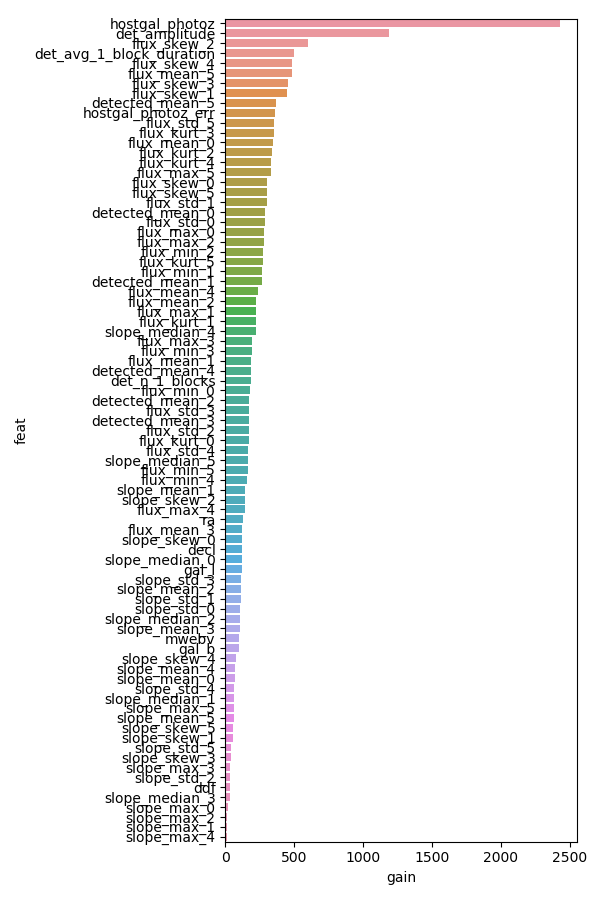
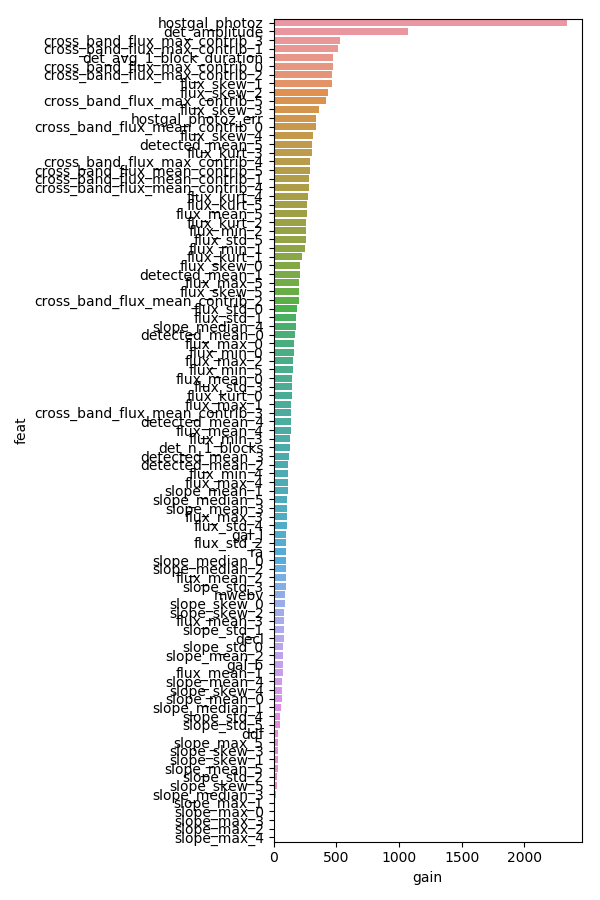
start monday aft

diff --git a/featgen_standard_v2.py b/featgen_standard_v2.py
@@ -25,12 +25,13 @@ def atomic_worker(args):
     feat_names = []
     feat_arrays = []
     compute_feats = {
-        'm-feats'            : False,
+        'm-feats'            : True,
         'm-feats-filtered'   : False,
-        't-feats'            : False,
-        'd-feats'            : False,
+        't-feats'            : True,
+        'd-feats'            : True,
         'cesium-feats'       : False,
-        'slope-feats'        : True,
+        'slope-feats'        : False,
+        'exp'                : False,
     }
 
 
@@ -60,6 +61,16 @@ def atomic_worker(args):
                     m_array[i,j*num_bands+k] = f(band)
 
         feat_arrays.append(m_array)
+
+        # Compute cross flux relations
+        cross_band_names = ['cross_band_flux_mean_contrib', 'cross_band_flux_max_contrib']
+        for fn in cross_band_names:
+            feat_names.extend([f'{fn}_{i:d}' for i in range(num_bands)])
+        mc_array = np.hstack([
+            m_array[:,:6] / np.sum(m_array[:,6:12], axis=1)[:,None],
+            m_array[:,6:12] / np.sum(m_array[:,6:12], axis=1)[:,None],
+        ])
+        feat_arrays.append(mc_array)
 
     '''
     slope feats
@@ -106,8 +117,6 @@ def atomic_worker(args):
 
         feat_arrays.append(s_array)
 
-
-
     '''
     m-feats (filtered flux) - for now empty bands
     '''
@@ -136,7 +145,62 @@ def atomic_worker(args):
 
         feat_arrays.append(mf_array)
 
+    '''
+    Experimental feats
+    '''
+    if compute_feats['exp']:
 
+        num_feats = 1
+
+        # Allocate numpy placeholder for computed feats
+        exp_array = np.zeros(
+            shape=(oids.size, num_feats * 6)
+        )
+
+        # Define feats to compute
+        def exp_feats(ts, ms, ds):
+            '''
+            Compute delta m15 on transients
+            '''
+
+            comp_feats = np.ones(6) * 10
+
+            for i, (t,m,d) in enumerate(zip(ts,ms,ds)):
+
+                # Check if null or near null band
+                if np.sum(d) <= 1:
+                    continue
+
+                # Check if transient
+                det_indexes = np.where(d==1)[0]
+                diff = det_indexes[1:]-det_indexes[:-1]
+                if np.any(diff != 1): # More than 1 group
+                    continue
+
+                # Find peak location
+
+                m = (m - np.mean(m[d])) / (np.max(m[d]) - np.min(m[d]))
+
+                peak_index = np.argmax(m[d])
+                peak_t = t[peak_index]
+                peak_m = m[peak_index]
+
+                # Walk from peak forward until we pass the 15 day mark
+                for m_after_peak, t_after_peak in zip(m[d][peak_index:], t[d][peak_index:]):
+                    if t_after_peak - peak_t >= 15:
+                        comp_feats[i] = m_after_peak - peak_m
+                        break
+
+            return comp_feats
+
+
+        feat_names.extend([f'exp_{i}' for i in range(6)])
+
+        # Compute 'td' (mjd/detected)-related feats
+        for i, (oid_t_curves, oid_m_curves, oid_d_curves) in enumerate(zip(lcs[0], lcs[1], lcs[3])):
+            exp_array[i, :] = exp_feats(oid_t_curves, oid_m_curves, oid_d_curves)
+
+        feat_arrays.append(exp_array)
 
     '''
     t-related feats (mjd, detected)
@@ -217,8 +281,6 @@ def atomic_worker(args):
 
         feat_arrays.append(t_array)
 
-
-
     '''
     Simple d feats
     '''
@@ -244,8 +306,6 @@ def atomic_worker(args):
                     d_array[i, j * num_bands + k] = f(band)
 
         feat_arrays.append(d_array)
-
-
 
     '''
     Cesium feats
@@ -359,7 +419,7 @@ set_str = 'test'
 st = time.time()
 main(
     save_dir='data/'+set_str+'_feats',
-    save_name=set_str+'_set_feats_r2_slope_v2.h5',
+    save_name=set_str+'_set_feats_r2_v7.h5',
     light_curves_dir='data/'+set_str+'_cesium_curves',
     n_batches=8,
 )

diff --git a/lgbm.py b/lgbm.py
@@ -172,11 +172,11 @@ meta_train, meta_test, y_tgt, train_cols = utils.prep_data()
 
 # Get data
 train_feats_list = [
-    'data/training_feats/training_set_feats_r2_v1.h5',
+    'data/training_feats/training_set_feats_r2_v7.h5',
     'data/training_feats/training_set_feats_r2_slope_v2.h5',
 ]
 test_feats_list = [
-    'data/test_feats/test_set_feats_r2_v1.h5',
+    'data/test_feats/test_set_feats_r2_v7.h5',
     'data/test_feats/test_set_feats_r2_slope_v2.h5',
 ]
 train = concat_feats(train_feats_list, meta_train)
